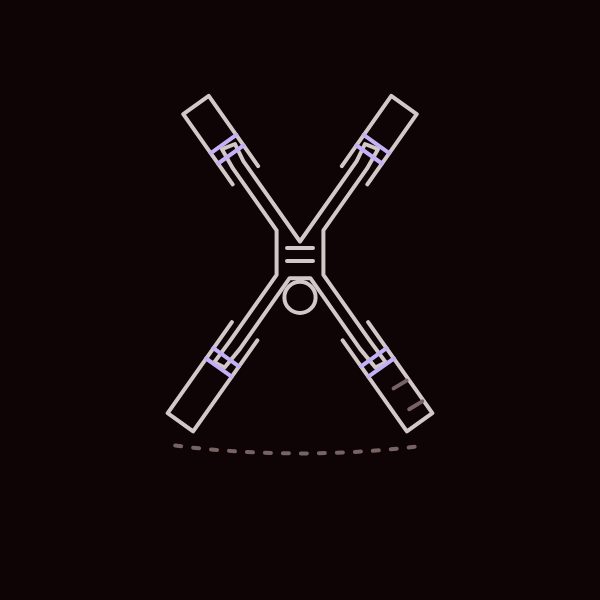
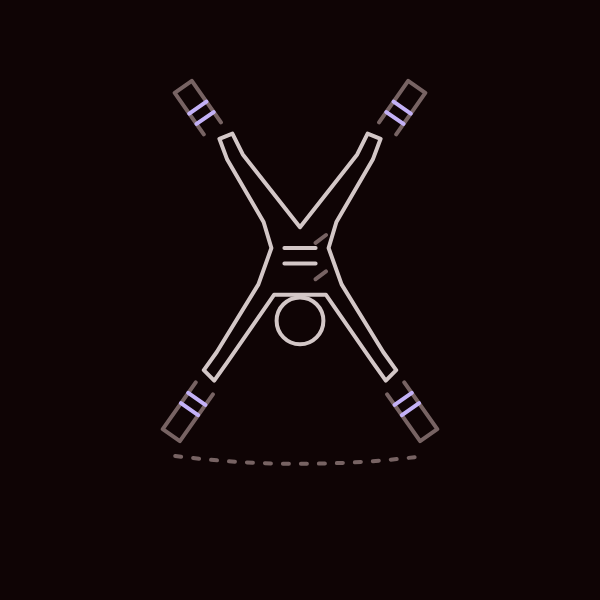
fix(art): address the review P3s on the northern lords (#1288)
Roose's flayed man gets a broad silhouette with the cross's ends in the
muted ink, so it reads as a figure at tile size. Alyn's death moves to
the later candidate chapter, 178. The one-medium stage test takes the
engine's latest semantics and checks each row's source. Unread wiki
pages move from sources to the unverified notes.

Changed region(s): [[0.27, 0.12, 0.75, 0.78], [0.48, 0.57, 0.51, 0.6]]

diff --git a/src/data/series/game-of-thrones/art/north.ts b/src/data/series/game-of-thrones/art/north.ts
@@ -293,20 +293,22 @@ const KARSTARK_HALF_RIGHT: Stroke[] = [
  */
 const FLAYED_MAN: Stroke[] = [
   {
-    d: 'M54.1 55.5 L35.1 28.5 L44.9 21.5 L63.9 48.5 M96.4 115.5 L121.1 150.5 L130.9 143.5 L106.2 108.5',
+    d: 'M43 36.3 L31.8 20.3 L38.4 15.7 L49.6 31.7 M120.1 131.7 L132.8 149.7 L126.2 154.3 L113.5 136.3',
+    role: 'ambient',
   },
   {
-    d: 'M105.9 55.5 L124.9 28.5 L115.1 21.5 L96.1 48.5 M63.6 115.5 L38.9 150.5 L29.1 143.5 L53.8 108.5',
+    d: 'M117 36.3 L128.2 20.3 L121.6 15.7 L110.4 31.7 M39.9 131.7 L27.2 149.7 L33.8 154.3 L46.5 136.3',
+    role: 'ambient',
   },
   {
-    d: 'M80 77.5 L58.2 46.6 L55 40 L50 42 L54.2 49.4 L71 73.2 V90.3 L52.9 116 L47 124 L51 126 L56.9 118.8 L76 91.6 H84 L103.1 118.8 L109 126 L113 124 L107.1 116 L89 90.3 V73.2 L105.8 49.4 L110 42 L105 40 L101.8 46.6 Z',
+    d: 'M80 72 L58 44 L54 36 L49 38 L52 46 L66 70 L69 80 L64 94 L48 120 L43 127 L47 131 L52 124 L70 98 H90 L108 124 L113 131 L117 127 L112 120 L96 94 L91 80 L94 70 L108 46 L111 38 L106 36 L102 44 Z',
   },
-  { d: circle(80, 99, 6) },
+  { d: circle(80, 108, 9) },
   {
-    d: 'M58.3 40.5 L48.5 47.5 M55.5 36.5 L45.7 43.5 M101.7 40.5 L111.5 47.5 M104.5 36.5 L114.3 43.5 M46.7 118.5 L56.5 125.5 M43.9 122.5 L53.7 129.5 M113.3 118.5 L103.5 125.5 M116.1 122.5 L106.3 129.5',
+    d: 'M40.2 32.3 L46.8 27.7 M37.4 28.3 L44 23.7 M119.8 32.3 L113.2 27.7 M122.6 28.3 L116 23.7 M37 135.7 L43.6 140.3 M34.2 139.7 L40.8 144.3 M123 135.7 L116.4 140.3 M125.8 139.7 L119.2 144.3',
     role: 'accent',
   },
-  { d: 'M75 80 H85 M75 85 H85', role: 'soft' },
+  { d: 'M74 80 H86 M74 86 H86', role: 'soft' },
 ]
 /**
  * Roose Bolton: the flayed man on the X-cross of the Bolton banner, for
@@ -315,8 +317,8 @@ const FLAYED_MAN: Stroke[] = [
  */
 const X_CROSS: Stroke[] = [
   ...FLAYED_MAN,
-  { d: 'M116 134 l5 -3 M122 142 l5 -3', role: 'ambient' },
-  shadow(80, 156, 48),
+  { d: 'M86 92 l4 -3 M86 78 l4 -3', role: 'ambient' },
+  shadow(80, 160, 48),
 ]
 
 /**
@@ -568,12 +570,13 @@ export const northRedrawn: Redrawings = {
   ],
   'alyn': [
     // The standard down on the ground, its staff broken and the stump left
-    // standing: he is killed at
-    // the Mummer's Ford with Beric's men, told in Arya III of A Storm of
-    // Swords (chapter 161). The book's alone; episode 21 orders it.
+    // standing: he is killed at the Mummer's Ford with Beric's men, told in
+    // A Storm of Swords. The book's alone; episode 21 orders it. The pin is
+    // the later of the two candidate chapters (34, site 178; 17 is 161),
+    // neither checked against the book (#1288).
     {
       episode: 21,
-      chapter: 161,
+      chapter: 178,
       value: [
         { d: 'M24 154 V104 l3 -4 l-2 -3 M24 104 l-3 -3' },
         {

diff --git a/src/server/archive/thronesSeason1.test.ts b/src/server/archive/thronesSeason1.test.ts
@@ -304,7 +304,7 @@ const CHANGES: {
   {
     id: 'alyn',
     episode: 21,
-    chapter: 161,
+    chapter: 178,
     value: 'deceased',
     source: 'chapter',
   },
@@ -1097,7 +1097,7 @@ const STAGES: {
   // The northern lords' deaths and reveals (#1288).
   { id: 'jeyne-poole', episode: 29, chapter: 332, source: 'chapter' },
   { id: 'mikken', episode: 16, chapter: 126, source: 'chapter' },
-  { id: 'alyn', episode: 21, chapter: 161, source: 'chapter' },
+  { id: 'alyn', episode: 21, chapter: 178, source: 'chapter' },
   { id: 'greatjon-umber', episode: 53, chapter: 344, source: 'episode' },
   { id: 'smalljon-umber', episode: 59, chapter: 195 },
   { id: 'rickard-karstark', episode: 25, chapter: 164 },
@@ -1145,6 +1145,26 @@ describe.each(
   },
 )
 
+/**
+ * The drawing a reader of the other medium sees at its ceiling: the
+ * record's latest stage both media (or that medium alone) tell, as Roose's
+ * Red Wedding before his show-only death, else its first drawing.
+ */
+function otherMediumSees(
+  id: keyof typeof DRAWINGS,
+  source: 'chapter' | 'episode' | undefined,
+  index: number,
+): unknown {
+  const seen = STAGES.filter(
+    (row) =>
+      row.id === id && (row.stage ?? 0) !== index && row.source !== source,
+  ).map((row) => row.stage ?? 0)
+
+  return seen.length === 0 ?
+      DRAWINGS[id]
+    : REDRAWINGS[id]?.[Math.max(...seen)]?.value
+}
+
 describe('the stages one medium alone tells', () => {
   it.each(STAGES.filter(({ source }) => source !== undefined))(
     'never redraws $id for a reader of the other medium',
@@ -1153,17 +1173,11 @@ describe('the stages one medium alone tells', () => {
         source === 'chapter' ?
           reader('episode', archive.series.episodeCeiling)
         : reader('chapter', archive.series.chapterCeiling)
-      // That reader still sees the record's last earlier stage both media
-      // (or theirs alone) tell, as Roose's Red Wedding before his death.
-      const seen = STAGES.filter(
-        (row) =>
-          row.id === id && (row.stage ?? 0) < index && row.source !== source,
-      ).map((row) => row.stage ?? 0)
-      const expected =
-        seen.length === 0 ?
-          DRAWINGS[id]
-        : REDRAWINGS[id]?.[Math.max(...seen)]?.value
+      const expected = otherMediumSees(id, source, index)
 
+      expect(REDRAWINGS[id]?.[index]?.source ?? recordOf(id).source).toBe(
+        source,
+      )
       expect(drawingOf(recordOf(id), last).strokes).toStrictEqual(expected)
     },
   )

diff --git a/src/data/series/game-of-thrones/records/season-1.ts b/src/data/series/game-of-thrones/records/season-1.ts
@@ -5311,9 +5311,9 @@ export const season1: ThronesSaga = {
       },
       status: [
         { episode: 1, chapter: 13, value: 'alive' },
-        // Killed at the Mummer's Ford, told in Arya III of A Storm of Swords
-        // (#1288). The chapter is not checked against the book.
-        { episode: 21, chapter: 161, source: 'chapter', value: 'deceased' },
+        // Killed at the Mummer's Ford, told in A Storm of Swords: the later
+        // of two candidate chapters, not checked against the book (#1288).
+        { episode: 21, chapter: 178, source: 'chapter', value: 'deceased' },
       ],
       affiliation: [
         {
